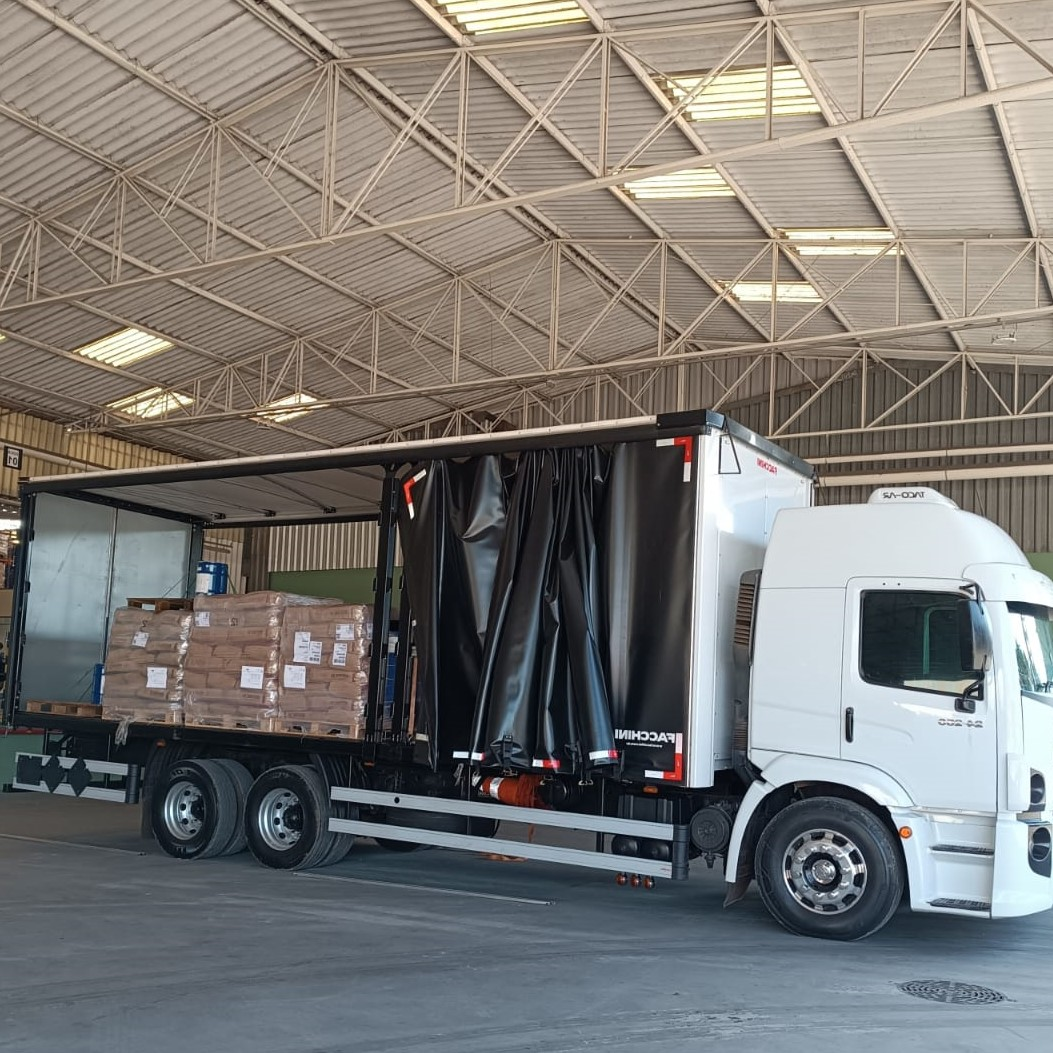
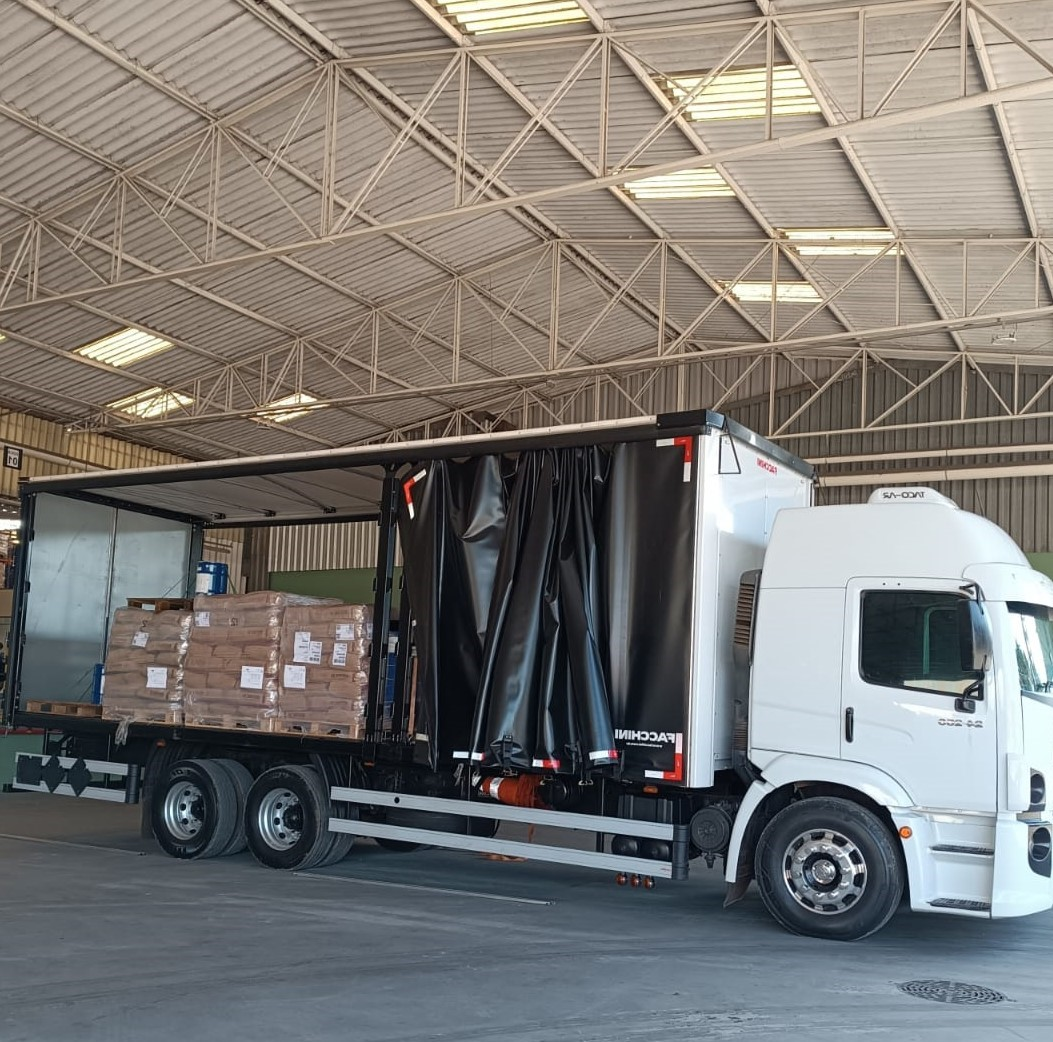
save1

diff --git a/index.html b/index.html
@@ -206,7 +206,7 @@
                                 <div class="portfolio-hover">
                                     <div class="portfolio-hover-content"><i class="fas fa-plus fa-3x"></i></div>
                                 </div>
-                                <img class="img-fluid" src="assets/img/portfolio/caminhão/caminhao1.jpg" alt="..." />
+                                <img class="img-fluid" src="assets/img/portfolio/caminhão/caminhão1.jpeg" alt="..." />
                             </a>
                             <div class="portfolio-caption">
                                 <div class="portfolio-caption-heading">Saiba mais</div>
